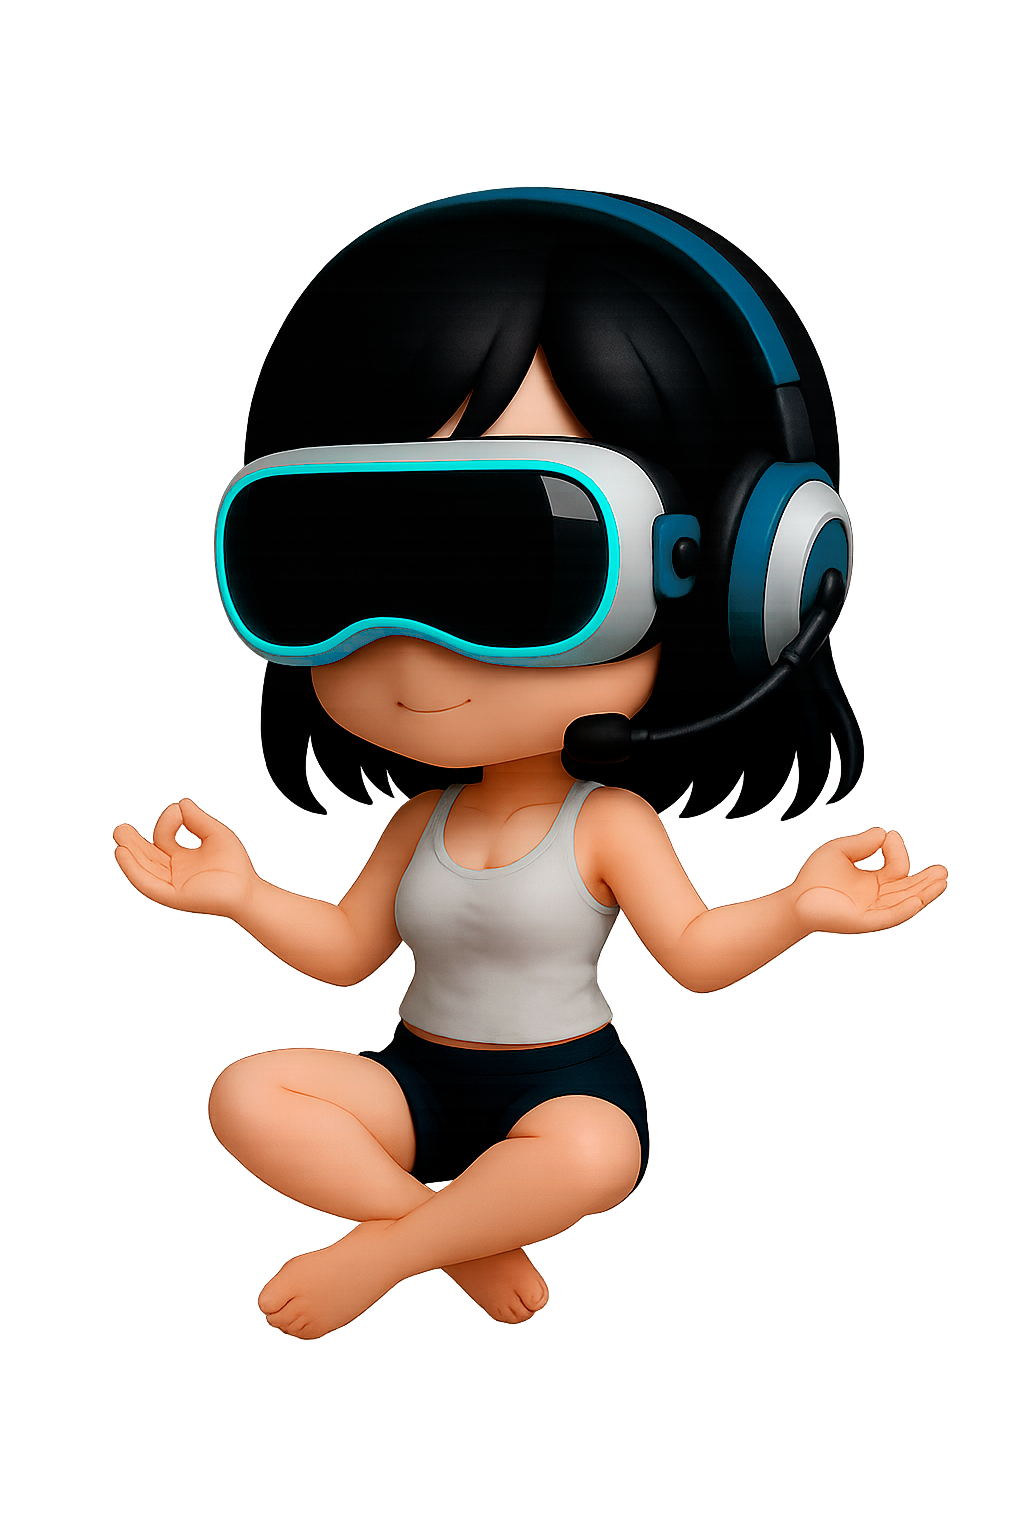
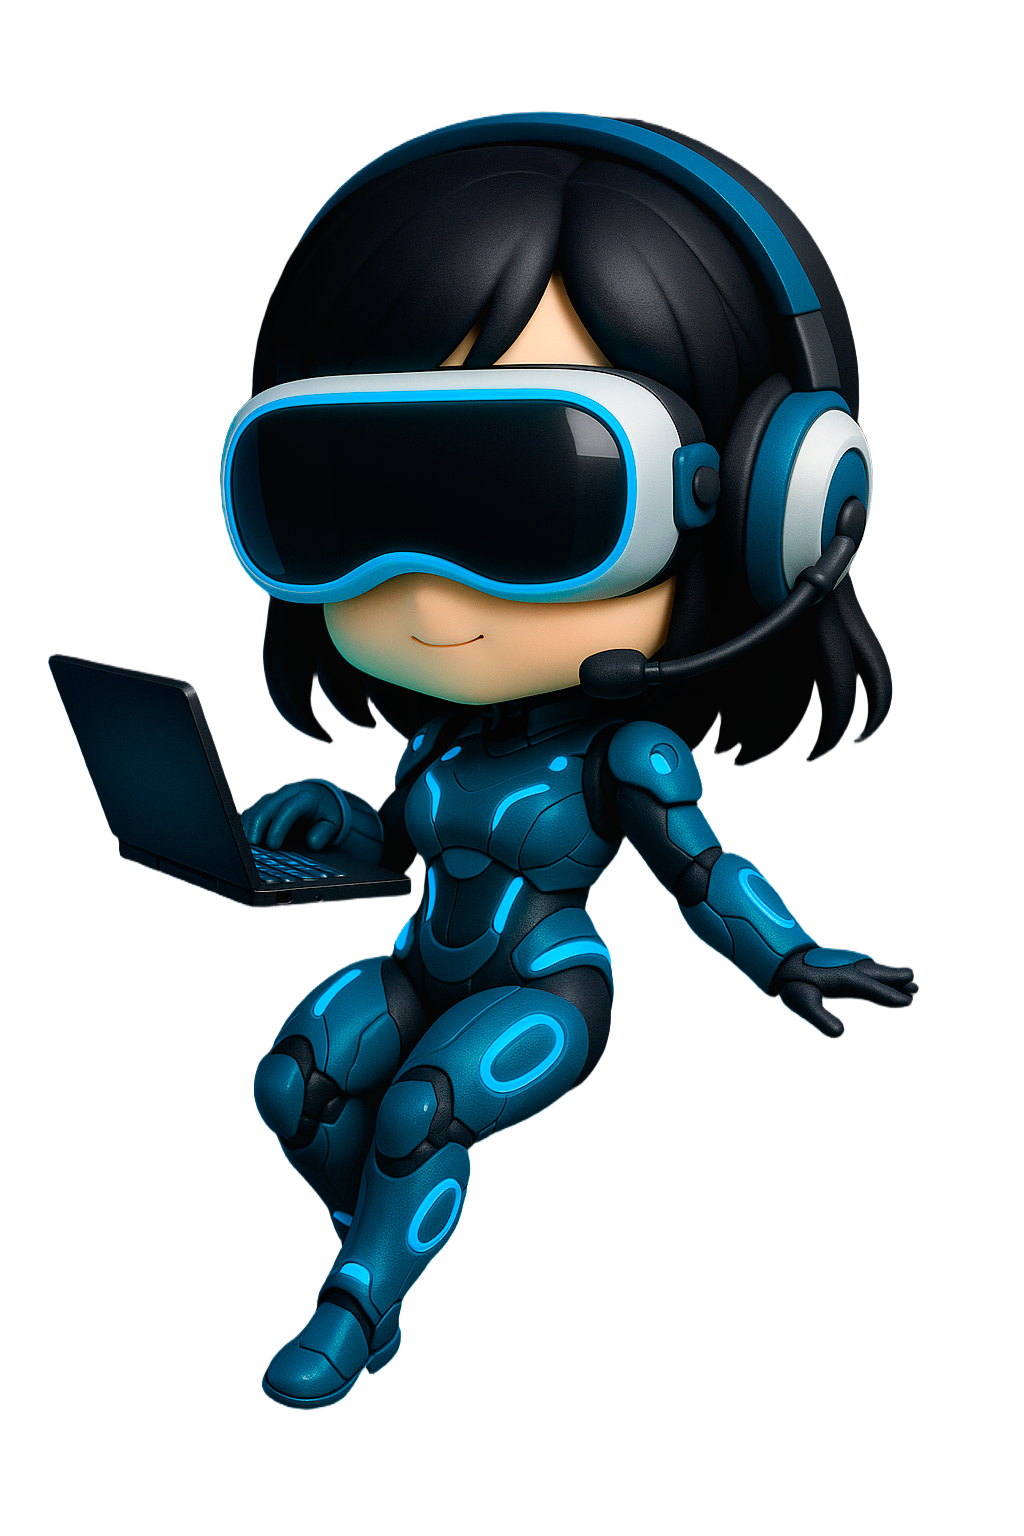
updated base 0.9.1

diff --git a/index.html b/index.html
@@ -974,21 +974,21 @@
     <section class="section-parallax">
         <div class="image-carousel-container" id="imageParallaxCarouselContainer">
             <div class="image-carousel" id="imageParallaxCarousel">
-                <div class="carousel-image-wrapper" data-caption="Diseño de Interfaz de Usuario (UI)">
+                <div class="carousel-image-wrapper" data-caption="🌐 AdSense vs Redes Sociales Ads">
                     <img src="img/your-image-1.png" alt="Informative Image 1" class="carousel-image">
-                    <div class="carousel-image-caption">Diseño de Interfaz de Usuario (UI)</div>
+                    <div class="carousel-image-caption">🌐 AdSense vs Redes Sociales Ads</div>
                 </div>
-                <div class="carousel-image-wrapper" data-caption="Desarrollo de Experiencia de Usuario (UX)">
+                <div class="carousel-image-wrapper" data-caption="🚀 SEO bien hecho = Eficiencia">
                     <img src="img/your-image-2.png" alt="Informative Image 2" class="carousel-image">
-                    <div class="carousel-image-caption">Desarrollo de Experiencia de Usuario (UX)</div>
+                    <div class="carousel-image-caption">🚀 SEO bien hecho = Eficiencia</div>
                 </div>
-                <div class="carousel-image-wrapper" data-caption="Optimización para Motores de Búsqueda (SEO)">
+                <div class="carousel-image-wrapper" data-caption="📊 Website vs Instagram en ventas">
                     <img src="img/your-image-3.png" alt="Informative Image 3" class="carousel-image">
-                    <div class="carousel-image-caption">Optimización para Motores de Búsqueda (SEO)</div>
+                    <div class="carousel-image-caption">📊 Website vs Instagram en ventas</div>
                 </div>
-                <div class="carousel-image-wrapper" data-caption="Desarrollo de Aplicaciones Web">
+                <div class="carousel-image-wrapper" data-caption="🎯 Web vs Redes Sociales">
                     <img src="img/your-image-4.png" alt="Informative Image 4" class="carousel-image">
-                    <div class="carousel-image-caption">Desarrollo de Aplicaciones Web</div>
+                    <div class="carousel-image-caption">🎯 Web vs Redes Sociales</div>
                 </div>
             </div>
         </div>
